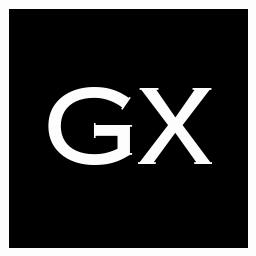
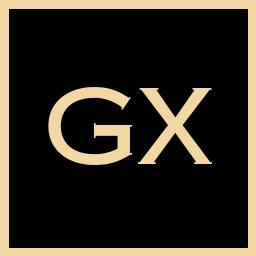
update 14mv2 tierlist

Changed region(s): [[0.0, 0.0, 1.0, 1.0], [0.1875, 0.3125, 0.8438, 0.6562]]

diff --git a/tierlist/mv2.py b/tierlist/mv2.py
@@ -14,6 +14,9 @@ COMBO_ALT = ["GH", "CH", "CG", "FG", "FH", "CF", "BH", "GR"]
 RHS_CLUE = ["X", "D", "P", "M", "A"]
 RHS_BOARD = ["E", "L"]
 
+LHS_1 = ["Q", "C", "T", "O", "D", "S", "B"]
+RHS_1 = ["M", "L", "W", "N", "X", "P", "E"]
+
 pwd = os.path.dirname(os.path.abspath(__file__))
 
 os.makedirs(os.path.join(pwd, "mv2", "output"), exist_ok=True)
@@ -29,12 +32,15 @@ font = [
     ImageFont.truetype("CopperplateCC-Heavy.ttf", 108), # 2 chars
     ImageFont.truetype("CopperplateCC-Heavy.ttf", 84), # 3 chars
     ImageFont.truetype("CopperplateCC-Heavy.ttf", 168), # for [E^]
+    ImageFont.truetype("CopperplateCC-Heavy.ttf", 96), # for 1+2
+    ImageFont.truetype("CopperplateCC-Heavy.ttf", 48), # for 1+2 subscript
 ]
 
 colors = [
     (0xfd, 0xfd, 0xfd), # white
     (0x9c, 0x9c, 0x9c), # gray
     (0xff, 0xff, 0x00), # yellow
+    (0xf3, 0xd7, 0xa2), # orange
 ]
 
 SIZE = 256
@@ -58,10 +64,50 @@ def create(msg, opt=0):
     _font = font[count_chars(msg) - 1]
     if "^" in msg:
         _font = font[3]
+    elif msg == "1+2" or msg == "2+1":
+        _font = font[1]
     w, h = draw.textsize(msg, font=_font)
     ascent, descent = _font.getmetrics()
     y = (SIZE - h - descent) // 2
     draw.text(((SIZE - w) // 2, y), msg, font=_font, fill=foreground)
+    draw.rectangle([0, 0, BORDER, SIZE], fill=foreground)
+    draw.rectangle([0, 0, SIZE, BORDER], fill=foreground)
+    draw.rectangle([SIZE - BORDER, 0, SIZE, SIZE], fill=foreground)
+    draw.rectangle([0, SIZE - BORDER, SIZE, SIZE], fill=foreground)
+    save(canvas)
+
+def create_1_2(a, b, sub1, sub2, opt=0):
+    canvas = Image.new("RGB", (SIZE, SIZE), color=(0, 0, 0))
+    foreground = colors[opt]
+    draw = ImageDraw.Draw(canvas)
+
+    _font = font[4]
+    wa, ha = draw.textsize(a, font=_font)
+    if b == 'W':
+        wb, hb = draw.textsize(b, font=font[2])
+    else:
+        wb, hb = draw.textsize(b, font=_font)
+    ascent, descent = _font.getmetrics()
+    # left half for a, right half for b
+    xa = (SIZE // 2 - wa) // 2 - 4
+    xb = SIZE // 2 + (SIZE // 2 - wb) // 2 - 20
+    ya = (SIZE - ha - descent) // 2
+    yb = (SIZE - hb - descent) // 2
+
+    sub_font = font[5]
+    w1, h1 = draw.textsize(str(sub1), font=sub_font)
+    w2, h2 = draw.textsize(str(sub2), font=sub_font)
+    asub, dsub = sub_font.getmetrics()
+    # sub 1 left-top x = a bottom-right x
+    # sub 1 middle y = a bottom y
+    sub_y = max(ya + ha - (h1 + dsub) // 2, yb + hb - (h2 + dsub) // 2)
+    sub1_x = xa + wa - 2
+    sub2_x = xb + wb - 2
+    
+    draw.text((xa, ya), a, font=_font, fill=foreground)
+    draw.text((xb, yb), b, font=_font, fill=foreground)
+    draw.text((sub1_x, sub_y), str(sub1), font=sub_font, fill=foreground)
+    draw.text((sub2_x, sub_y), str(sub2), font=sub_font, fill=foreground)
     draw.rectangle([0, 0, BORDER, SIZE], fill=foreground)
     draw.rectangle([0, 0, SIZE, BORDER], fill=foreground)
     draw.rectangle([SIZE - BORDER, 0, SIZE, SIZE], fill=foreground)
@@ -84,7 +130,12 @@ def main():
     create("+", 2)
     for a in LHS_FULL:
         for b in RHS_FULL:
-            create(a + b, (a in LHS_BONUS) or (b in RHS_BONUS))
+            opt = 0
+            if a in LHS_BONUS or b in RHS_BONUS:
+                opt = 1
+            elif b == "X":
+                opt = 3
+            create(a + b, opt)
     
     create("+'", 2)
     for ab in COMBO_ALT:
@@ -103,7 +154,12 @@ def main():
     create("&+", 2)
     for a in LHS_FULL:
         for bc in ATTACH_ORD:
-            create(a + bc, (a in LHS_BONUS))
+            opt = 0
+            if a in LHS_BONUS:
+                opt = 1
+            elif bc == "EX":
+                opt = 3
+            create(a + bc, opt)
     
     create("#", 2)
     for b in RHS_BOARD:
@@ -114,6 +170,16 @@ def main():
         for b in RHS_BOARD:
             create(a + b + "#", (a in LHS_BONUS))
     
+    create("2+1", 2)
+    for a in LHS:
+        for b in RHS_1:
+            create_1_2(a, b, 2, 1, 3 if b == "M" else 0)
+    
+    create("1+2", 2)
+    for a in LHS_1:
+        for b in RHS:
+            create_1_2(a, b, 1, 2, 3 if b == "X" else 0)
+
     for f in os.listdir(replaces_dir):
         shutil.copy(os.path.join(replaces_dir, f), output_dir)
 

diff --git a/tierlist/README.md b/tierlist/README.md
@@ -10,10 +10,12 @@ Grey cells are bonus variants.
 
 # 14 Minesweeper Variants 2 Full Tier List (Restyled)
 
-[Tiermaker](https://tiermaker.com/create/14-minesweeper-variants-2-full-combination-andattachment-17377235-7)
+[Tiermaker](https://tiermaker.com/create/14-minesweeper-variants-2-full-combination-andattachment-17377235-8)
 
 A complete tier list for 14 Minesweeper Variants 2 (14MV2), including all Combinations (+, +') and Attachments (&, &'). 
 
-To help you locate a specific variant, placeholder cells (?, +, +', &, &', &+, #, #+) are used to indicate the start of a new section.
+To help you locate a specific variant, placeholder cells (?, +, +', &, &', &+, #, #+, 2+1, 1+2) are used to indicate the start of a new section.
 
-Grey cells are bonus variants.
+Grey cells are bonus variants. 
+
+Soft orange cells indicate the start of a new gallery row.
